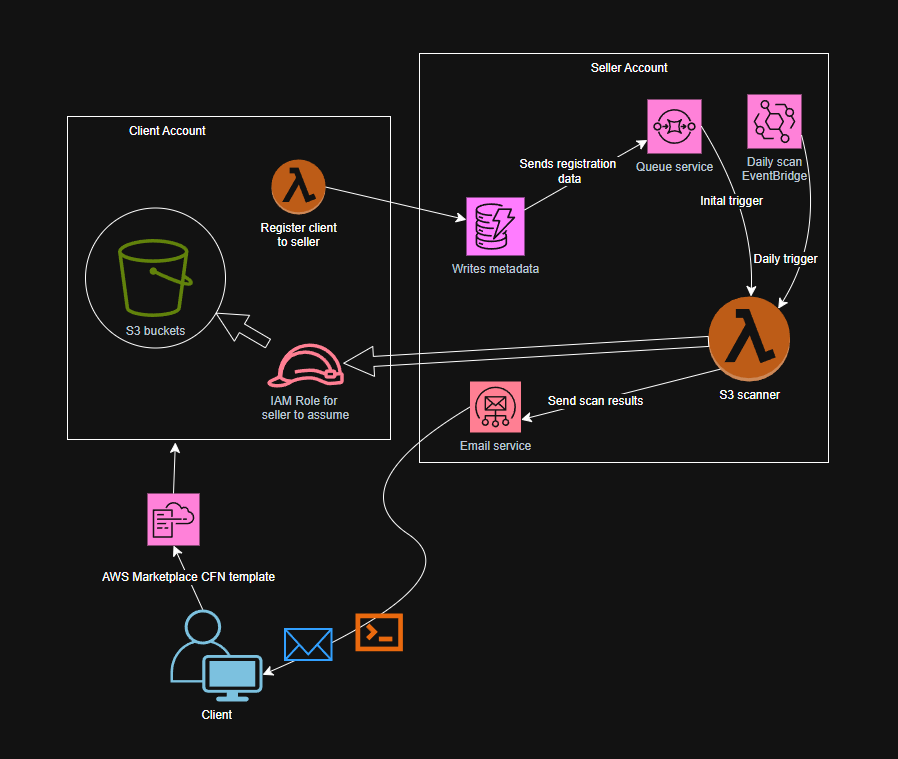
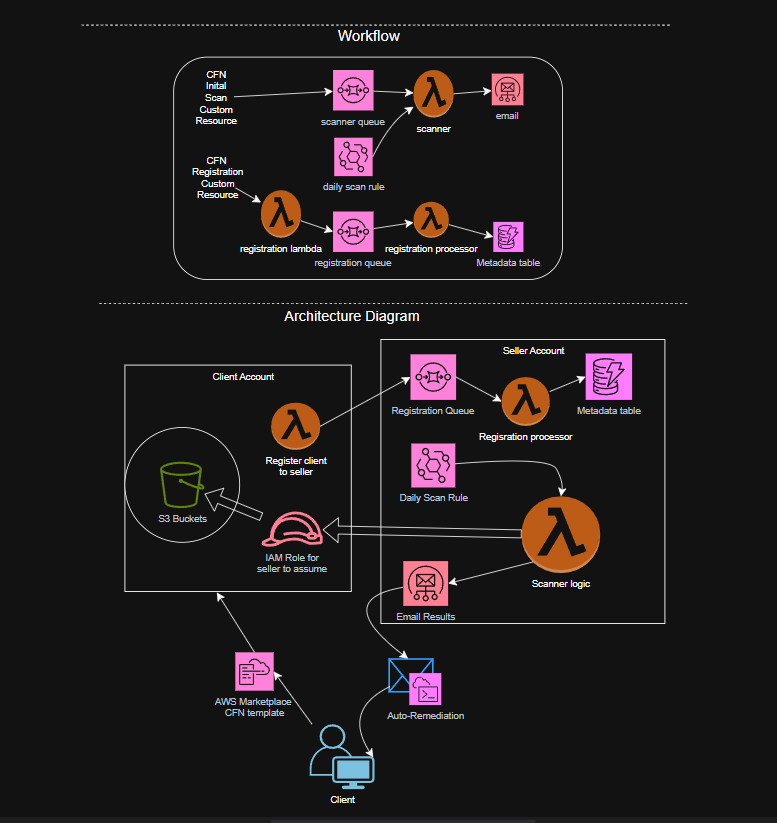
new architecture diagram

diff --git a/s3-misconfig.py b/s3-misconfig.py
@@ -74,7 +74,7 @@ def process_client(client, ses_client):
         # Scan buckets
         bucket_risks = scan_buckets(s3_client, config)
         result['summary']['total_buckets'] = len(bucket_risks)
-        result['summary']['high_risk'] = sum(1 for b in bucket_risks if b.get('severity') in ['high', 'error'])
+        result['summary']['high_risk'] = sum(1 for b in bucket_risks if b.get('severity') in ['high'])
         result['summary']['errors'] = sum(1 for b in bucket_risks if b.get('severity') == 'error')
         result['buckets'] = bucket_risks
 
@@ -470,7 +470,7 @@ def build_html_email_body(results, remediate):
         <h1>S3 Security Scanner Findings for Account {account_id}</h1>
         <p><strong>Timestamp:</strong> {timestamp}</p>
         <p><strong>Region:</strong> {region}</p>
-        <p><strong>Total Buckets Scanned:</strong> {total_buckets}</p>
+        <p><strong>Total Buckets:</strong> {total_buckets}</p>
     """
 
     if remediate and 'fixes' in results:
@@ -493,7 +493,7 @@ def build_html_email_body(results, remediate):
         html += "</table>"
 
     # Initialize findings by severity, including all buckets
-    findings_by_severity = {'error': [], 'high': [], 'medium': [], 'low': [], 'none': []}
+    findings_by_severity = {'high': [], 'medium': [], 'low': [], 'error': [], 'none': []}
     for bucket in results['buckets']:
         if bucket.get('skipped', False):
             findings_by_severity['none'].append({
@@ -523,7 +523,7 @@ def build_html_email_body(results, remediate):
                 })
 
     html += "<h2>Findings</h2>"
-    for severity in ['error', 'high', 'medium', 'low']:
+    for severity in ['high', 'medium', 'low', 'error']:
         title = 'Low Risk Issues' if severity == 'low' else f"{severity.title()} Risk Issues"
         html += f"""
         <h3 class="{severity}">{title}</h3>
@@ -533,11 +533,11 @@ def build_html_email_body(results, remediate):
         if not findings_by_severity[severity]:
             html += """
             <tr>
-                <td class="{severity}">{severity.upper()}</td>
-                <td>N/A</td>
-                <td>NoIssues</td>
-                <td>No {severity} risk issues detected</td>
-                <td>No action needed</td>
+                <td> </td>
+                <td> </td>
+                <td> </td>
+                <td> </td>
+                <td> </td>
             </tr>
             """
         else:
